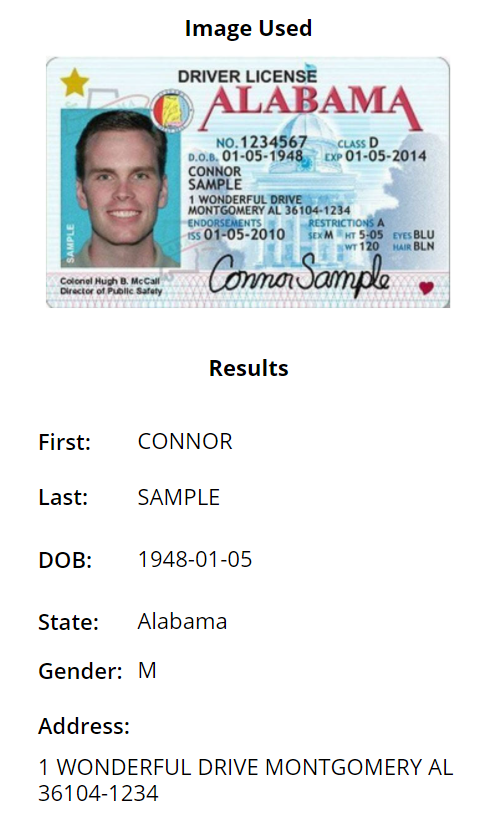
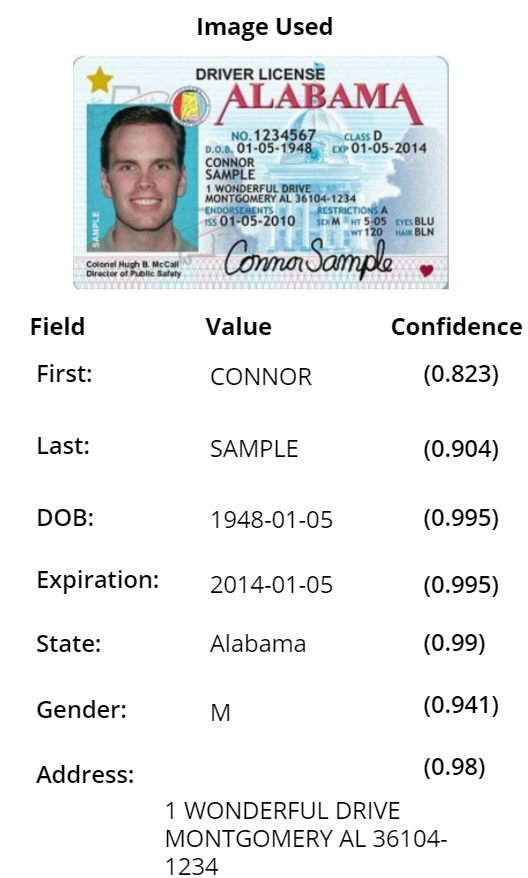
updating screenshots

diff --git a/demos/ai-builder-drivers-license/README.md b/demos/ai-builder-drivers-license/README.md
@@ -2,7 +2,9 @@
 
 This demo showcases how to use AI Builders prebuilt drivers license model to extract fields from any valid US issued drivers license.
 
+<p align="center">
 ![overview image](files/CanvasApp01.PNG)
+</p>
 
 ## Prereq's
 
@@ -21,8 +23,20 @@ This demo showcases how to use AI Builders prebuilt drivers license model to ext
 
 4. You can either add an existing image from your device, or you can use your camera to take a photo of a drivers license
 
+<p align="center">
 ![overview image](files/CanvasApp02.PNG)
+</p>
 
-5. Sample drivers licenses can be found here for each state in the United States,
+5. If you add an existing photo, you can find sample drivers licenses can be found here for each state in the United States,
 
 [Sample US Drivers License Photos](https://github.com/SteveWinward/PowerApps/blob/master/WriteUps/Samples/AIBuilder_IDReader/SampleDriversLicenses.zip)
+
+<p align="center">
+![overview image](files/CanvasApp03.PNG)
+</p>
+
+6. Processing the image will show you the results page that includes the fields it pulled, the values and the associated confidence scores of the results.
+
+<p align="center">
+![overview image](files/CanvasApp01.PNG)
+</p>
